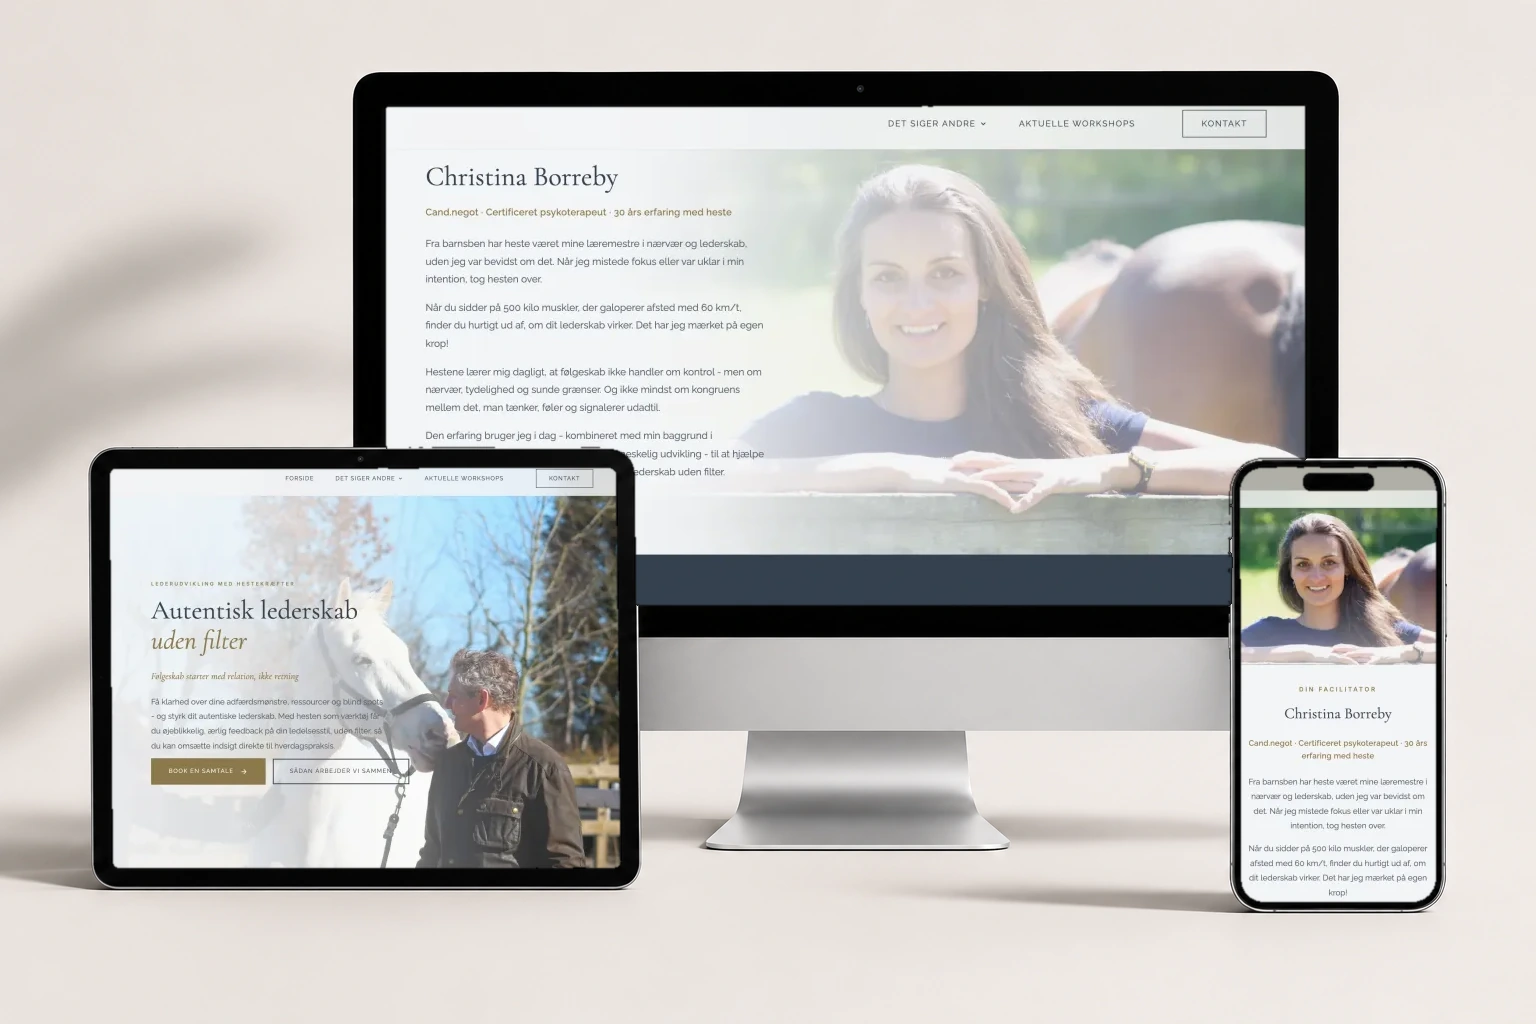
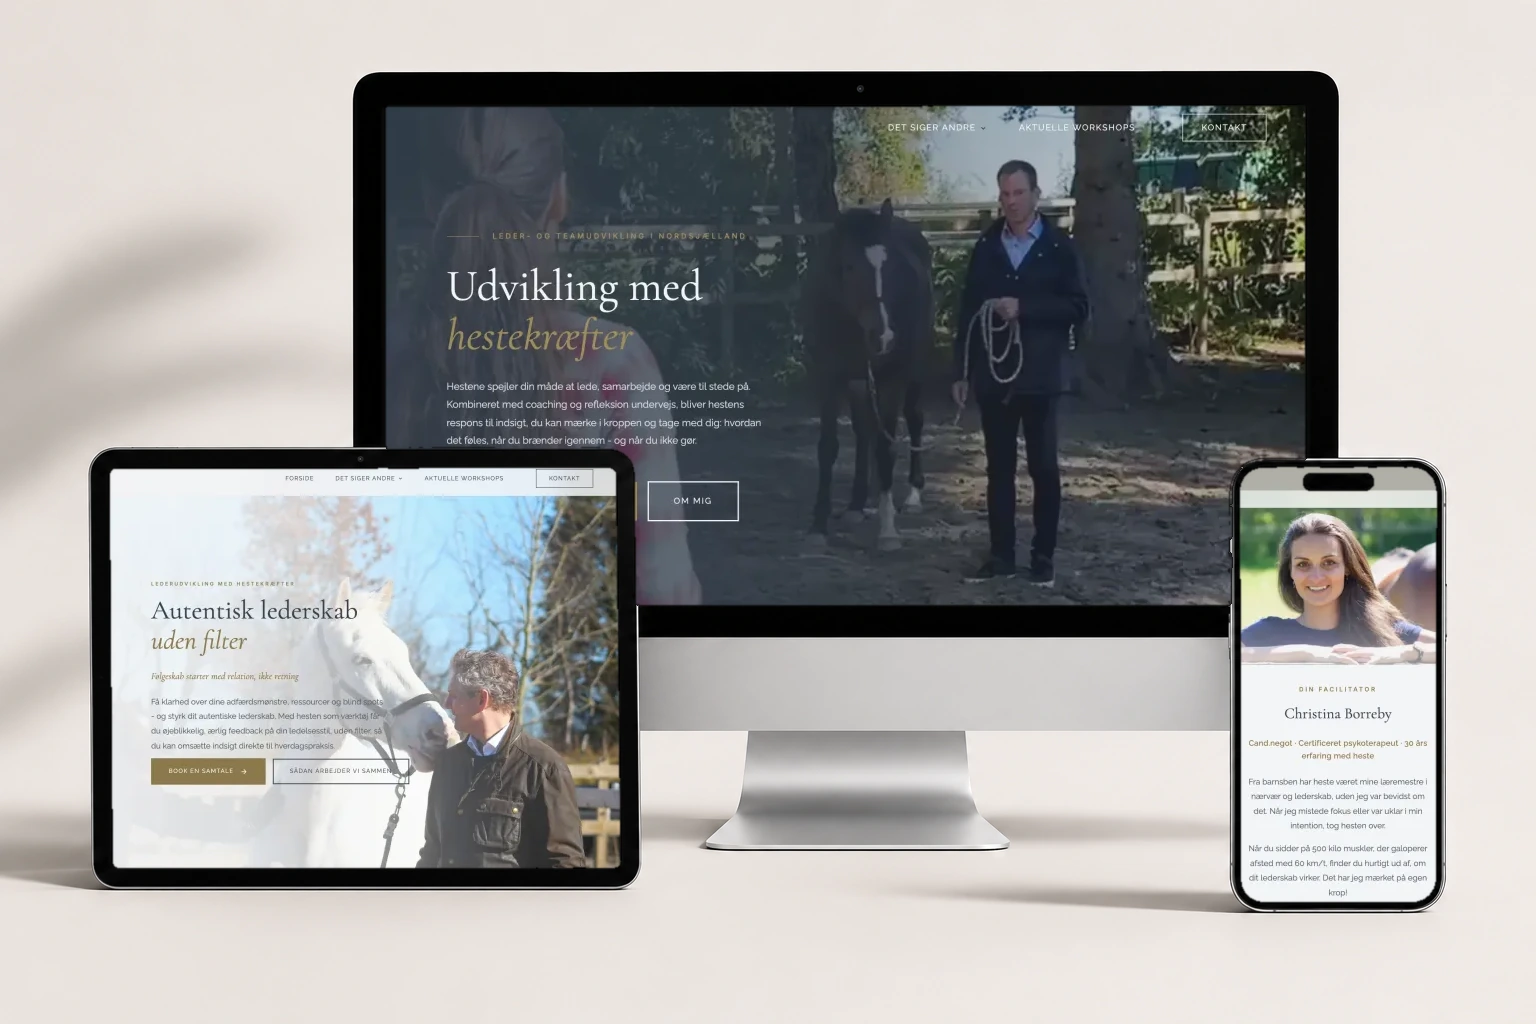
Fjern kant om mockup-billeder og brug almindelig forside på stor skærm i Christina-casen
Claude-Session: https://claude.ai/code/session_01UWw41VJjZu8eG7gFAcypNB

Changed region(s): [[0.25, 0.0938, 0.875, 0.5938]]

diff --git a/components/sections/CaseShowcase.tsx b/components/sections/CaseShowcase.tsx
@@ -12,6 +12,15 @@ import { caseStudiesDetailed } from '@/data/caseStudies'
 
 const FEATURED = ['eskild-ebbesen', 'mind-balance-system', 'significanz', 'christina-borreby']
 const INTERVAL = 6500
+// Fader mockup-billedets kanter ud, så der ikke ses en kant mod sektionens baggrund
+const FEATHER =
+  'linear-gradient(to right, transparent, #000 7%, #000 93%, transparent), linear-gradient(to bottom, transparent, #000 9%, #000 91%, transparent)'
+const FEATHER_STYLE = {
+  WebkitMaskImage: FEATHER,
+  maskImage: FEATHER,
+  WebkitMaskComposite: 'source-in',
+  maskComposite: 'intersect',
+} as const
 
 export function CaseShowcase() {
   const shouldReduceMotion = useReducedMotion()
@@ -75,6 +84,7 @@ export function CaseShowcase() {
               <motion.div
                 key={c.slug}
                 className="absolute inset-0"
+                style={FEATHER_STYLE}
                 initial={false}
                 animate={{ opacity: i === active ? 1 : 0, scale: shouldReduceMotion || i === active ? 1 : 0.985 }}
                 transition={{ duration: shouldReduceMotion ? 0 : 0.9, ease: 'easeOut' }}

diff --git a/app/[locale]/cases/page.tsx b/app/[locale]/cases/page.tsx
@@ -53,7 +53,7 @@ function ProjectCard({ project, index, shouldReduceMotion }: {
         <div
           ref={cardRef}
           data-project-card
-          className="relative overflow-hidden rounded-2xl border border-white/10 shadow-sm transition-shadow duration-500 group-hover:shadow-xl group-hover:shadow-black/10"
+          className="relative overflow-hidden"
           onMouseMove={handleMouseMove}
           onMouseLeave={handleMouseLeave}
         >
@@ -63,7 +63,7 @@ function ProjectCard({ project, index, shouldReduceMotion }: {
           </span>
 
           <motion.div
-            className="relative bg-[#ece6e1] transition-transform duration-700 ease-out group-hover:scale-[1.02]"
+            className="relative transition-transform duration-700 ease-out group-hover:scale-[1.02]"
             style={{ x: springImgX, y: springImgY }}
           >
             <DeviceShowcase

diff --git a/components/ui/DeviceShowcase.tsx b/components/ui/DeviceShowcase.tsx
@@ -5,6 +5,10 @@ import Image from 'next/image'
  * Billedet genereres med: node scripts/capture-screens.mjs && node scripts/build-mockups.mjs
  * → /public/portfolio-images/mockups/{slug}.webp  (1536×1024)
  */
+// Fader billedets kanter ud, så der ikke ses en kant mod baggrunden
+const FEATHER =
+  'linear-gradient(to right, transparent, #000 7%, #000 93%, transparent), linear-gradient(to bottom, transparent, #000 9%, #000 91%, transparent)'
+
 interface Props {
   slug: string
   title: string
@@ -21,6 +25,7 @@ export function DeviceShowcase({ slug, title, priority }: Props) {
       quality={90}
       priority={priority}
       className="w-full h-auto"
+      style={{ WebkitMaskImage: FEATHER, maskImage: FEATHER, WebkitMaskComposite: 'source-in', maskComposite: 'intersect' }}
       sizes="(max-width: 768px) 100vw, 700px"
     />
   )
